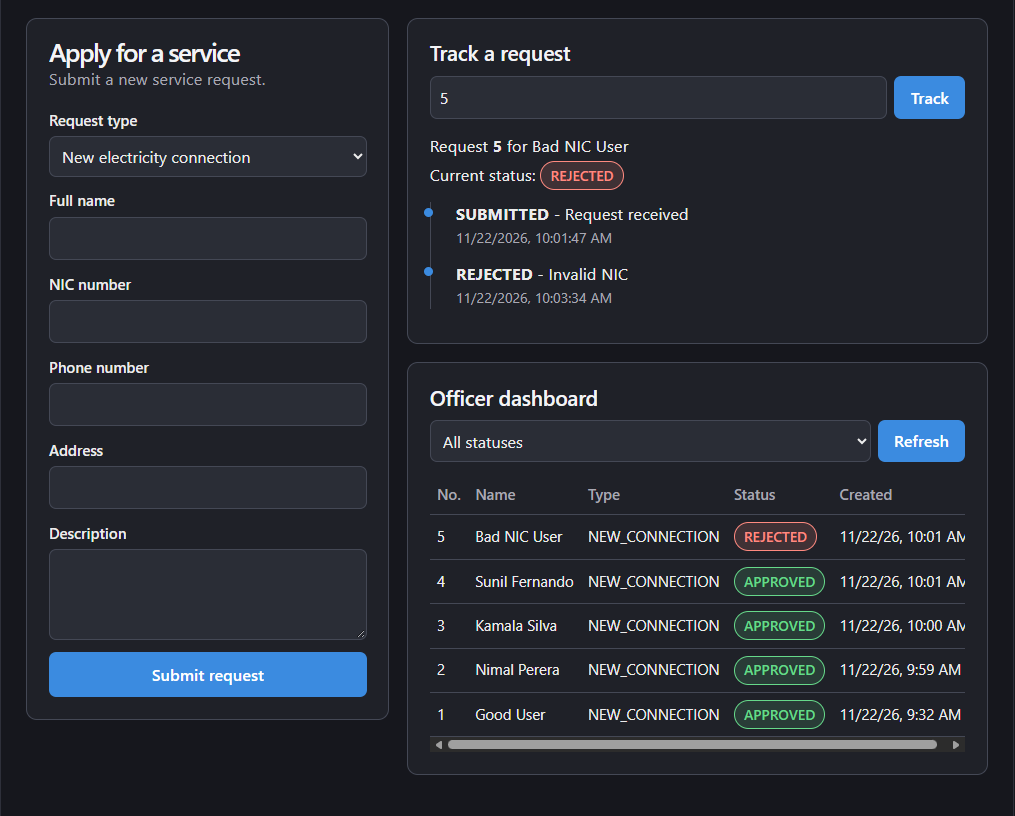
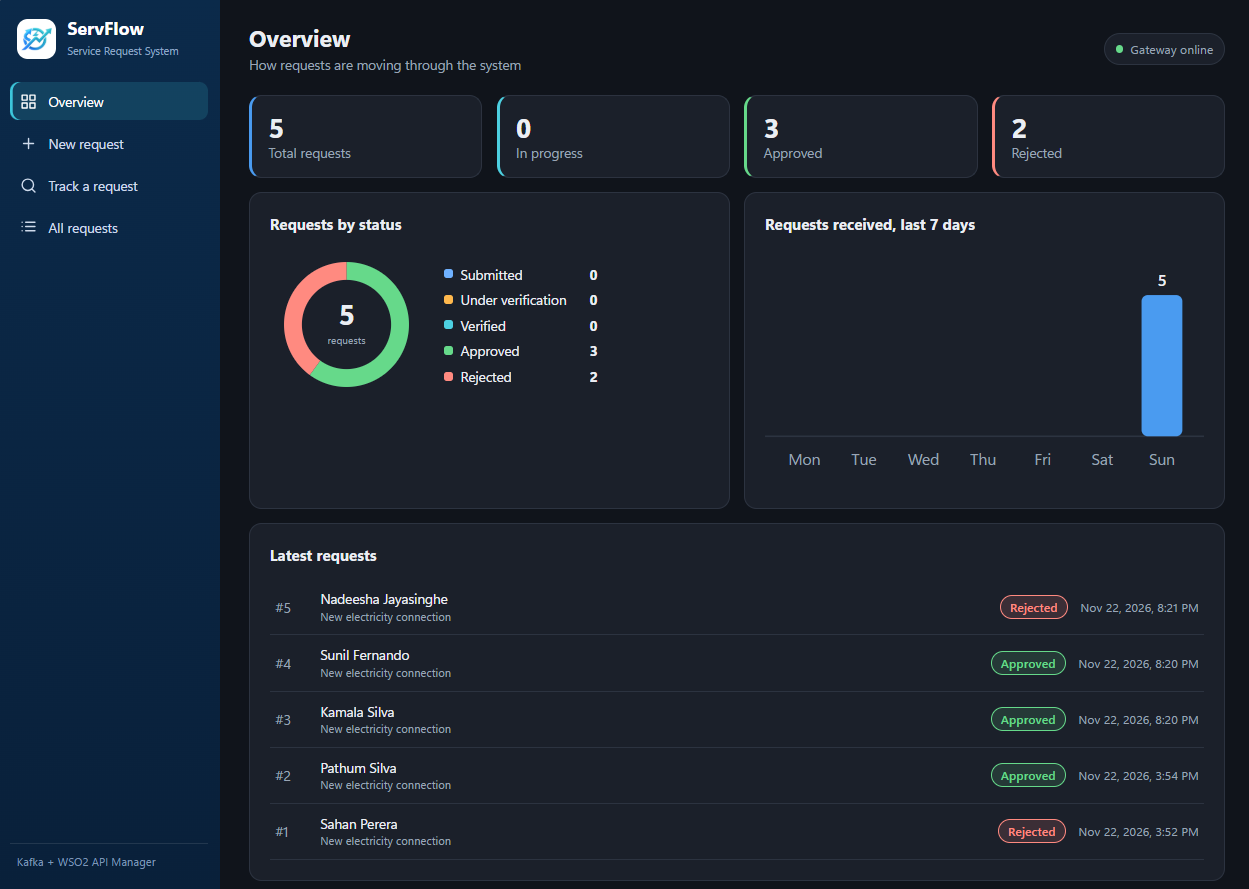
README and screenshots: update for the new ServFlow UI

diff --git a/README.md b/README.md
@@ -8,9 +8,9 @@ A citizen submits a request through a web form. The request is verified, approve
 
 ## Screenshots
 
-![Full page: submit form, request tracking with a rejected request, and the officer dashboard](docs/screenshots/full-page.png)
+![Overview tab: request totals, status charts and the latest requests](docs/screenshots/full-page.png)
 
-*The submit form (left), the tracking timeline for a rejected request and the officer dashboard with colour-coded statuses (right).*
+*The Overview tab of the ServFlow app. The side navigation has four tabs: Overview, New request, Track a request and All requests. The Overview shows totals, a chart of requests by status, requests received per day and the latest requests.*
 
 ![Timeline of an approved request](docs/screenshots/track-approved.png)
 
@@ -57,13 +57,14 @@ Message keys are the request ID, so all events for one request go to the same pa
 
 ## Frontend
 
-A single page with three cards:
+A single-page app called ServFlow, with a side navigation and four tabs:
 
-- **Apply for a service**: a form with loading, error and success states. It shows clear messages for an expired token (401) and for rate limiting (429). There are no NIC or phone checks in the browser on purpose: the check belongs to verification-service, so a bad NIC visibly ends up as `REJECTED`.
+- **Overview**: totals for all, in-progress, approved and rejected requests, a donut chart of requests by status, a bar chart of requests received in the last 7 days, and the latest requests. The charts are plain SVG, so no chart library is needed.
+- **New request**: a form with loading, error and success states. It shows clear messages for an expired token (401) and for rate limiting (429). There are no NIC or phone checks in the browser on purpose: the check belongs to verification-service, so a bad NIC visibly ends up as `REJECTED`.
 - **Track a request**: enter a request number to see its current status and a timeline built from `/requests/{id}/history`. A missing request shows "No request found".
-- **Officer dashboard**: a table of all requests, newest first, with a status filter, a refresh button and colour-coded status badges. It is view-only.
+- **All requests**: a table of all requests, newest first, with a status filter and a refresh button. Selecting a row opens its history in the Track tab. It is view-only.
 
-The layout has two columns on wide screens and one column on narrow screens.
+On narrow screens the side navigation becomes a top bar. The colours follow the browser light or dark setting, and the ServFlow logo is also used as the browser icon.
 
 The browser never holds the WSO2 token. The Vite dev server proxies every call that starts with `/api` to the WSO2 gateway, rewrites `/api/...` to `/requestapi/1.0.0/...`, and adds the `Authorization: Bearer` header on the server side. This also avoids CORS problems, because the browser only talks to one address.
 
